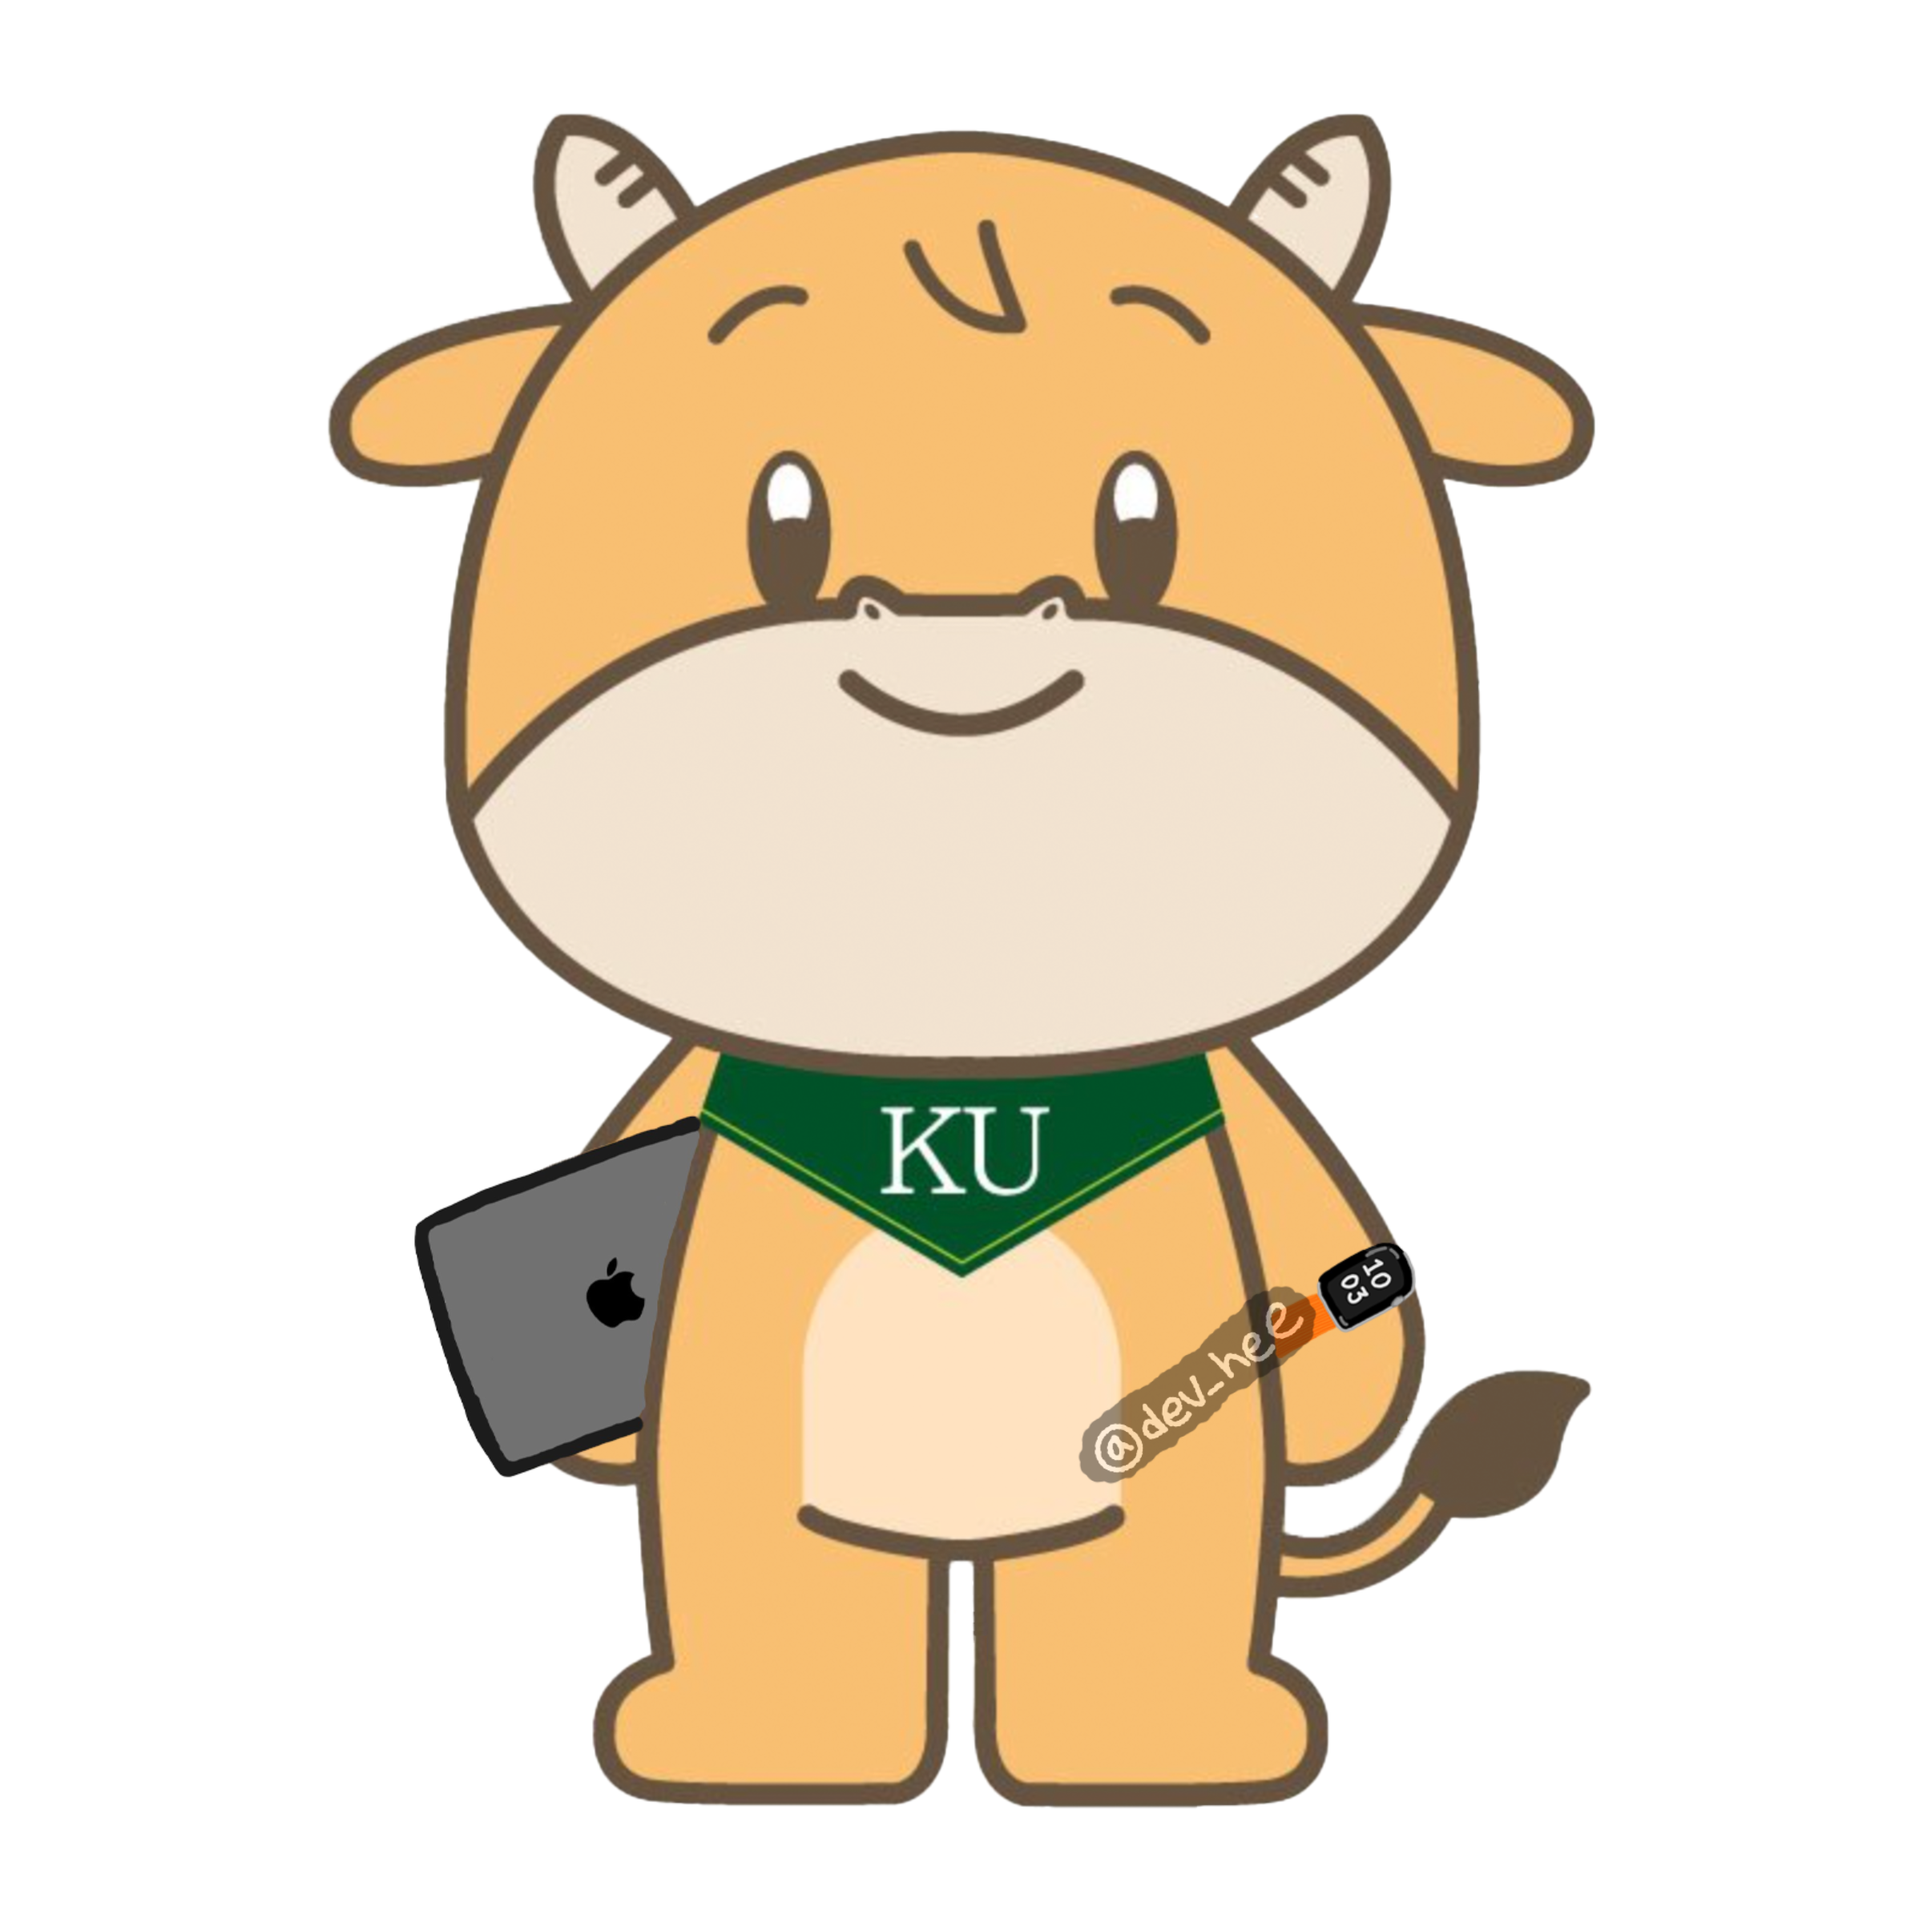
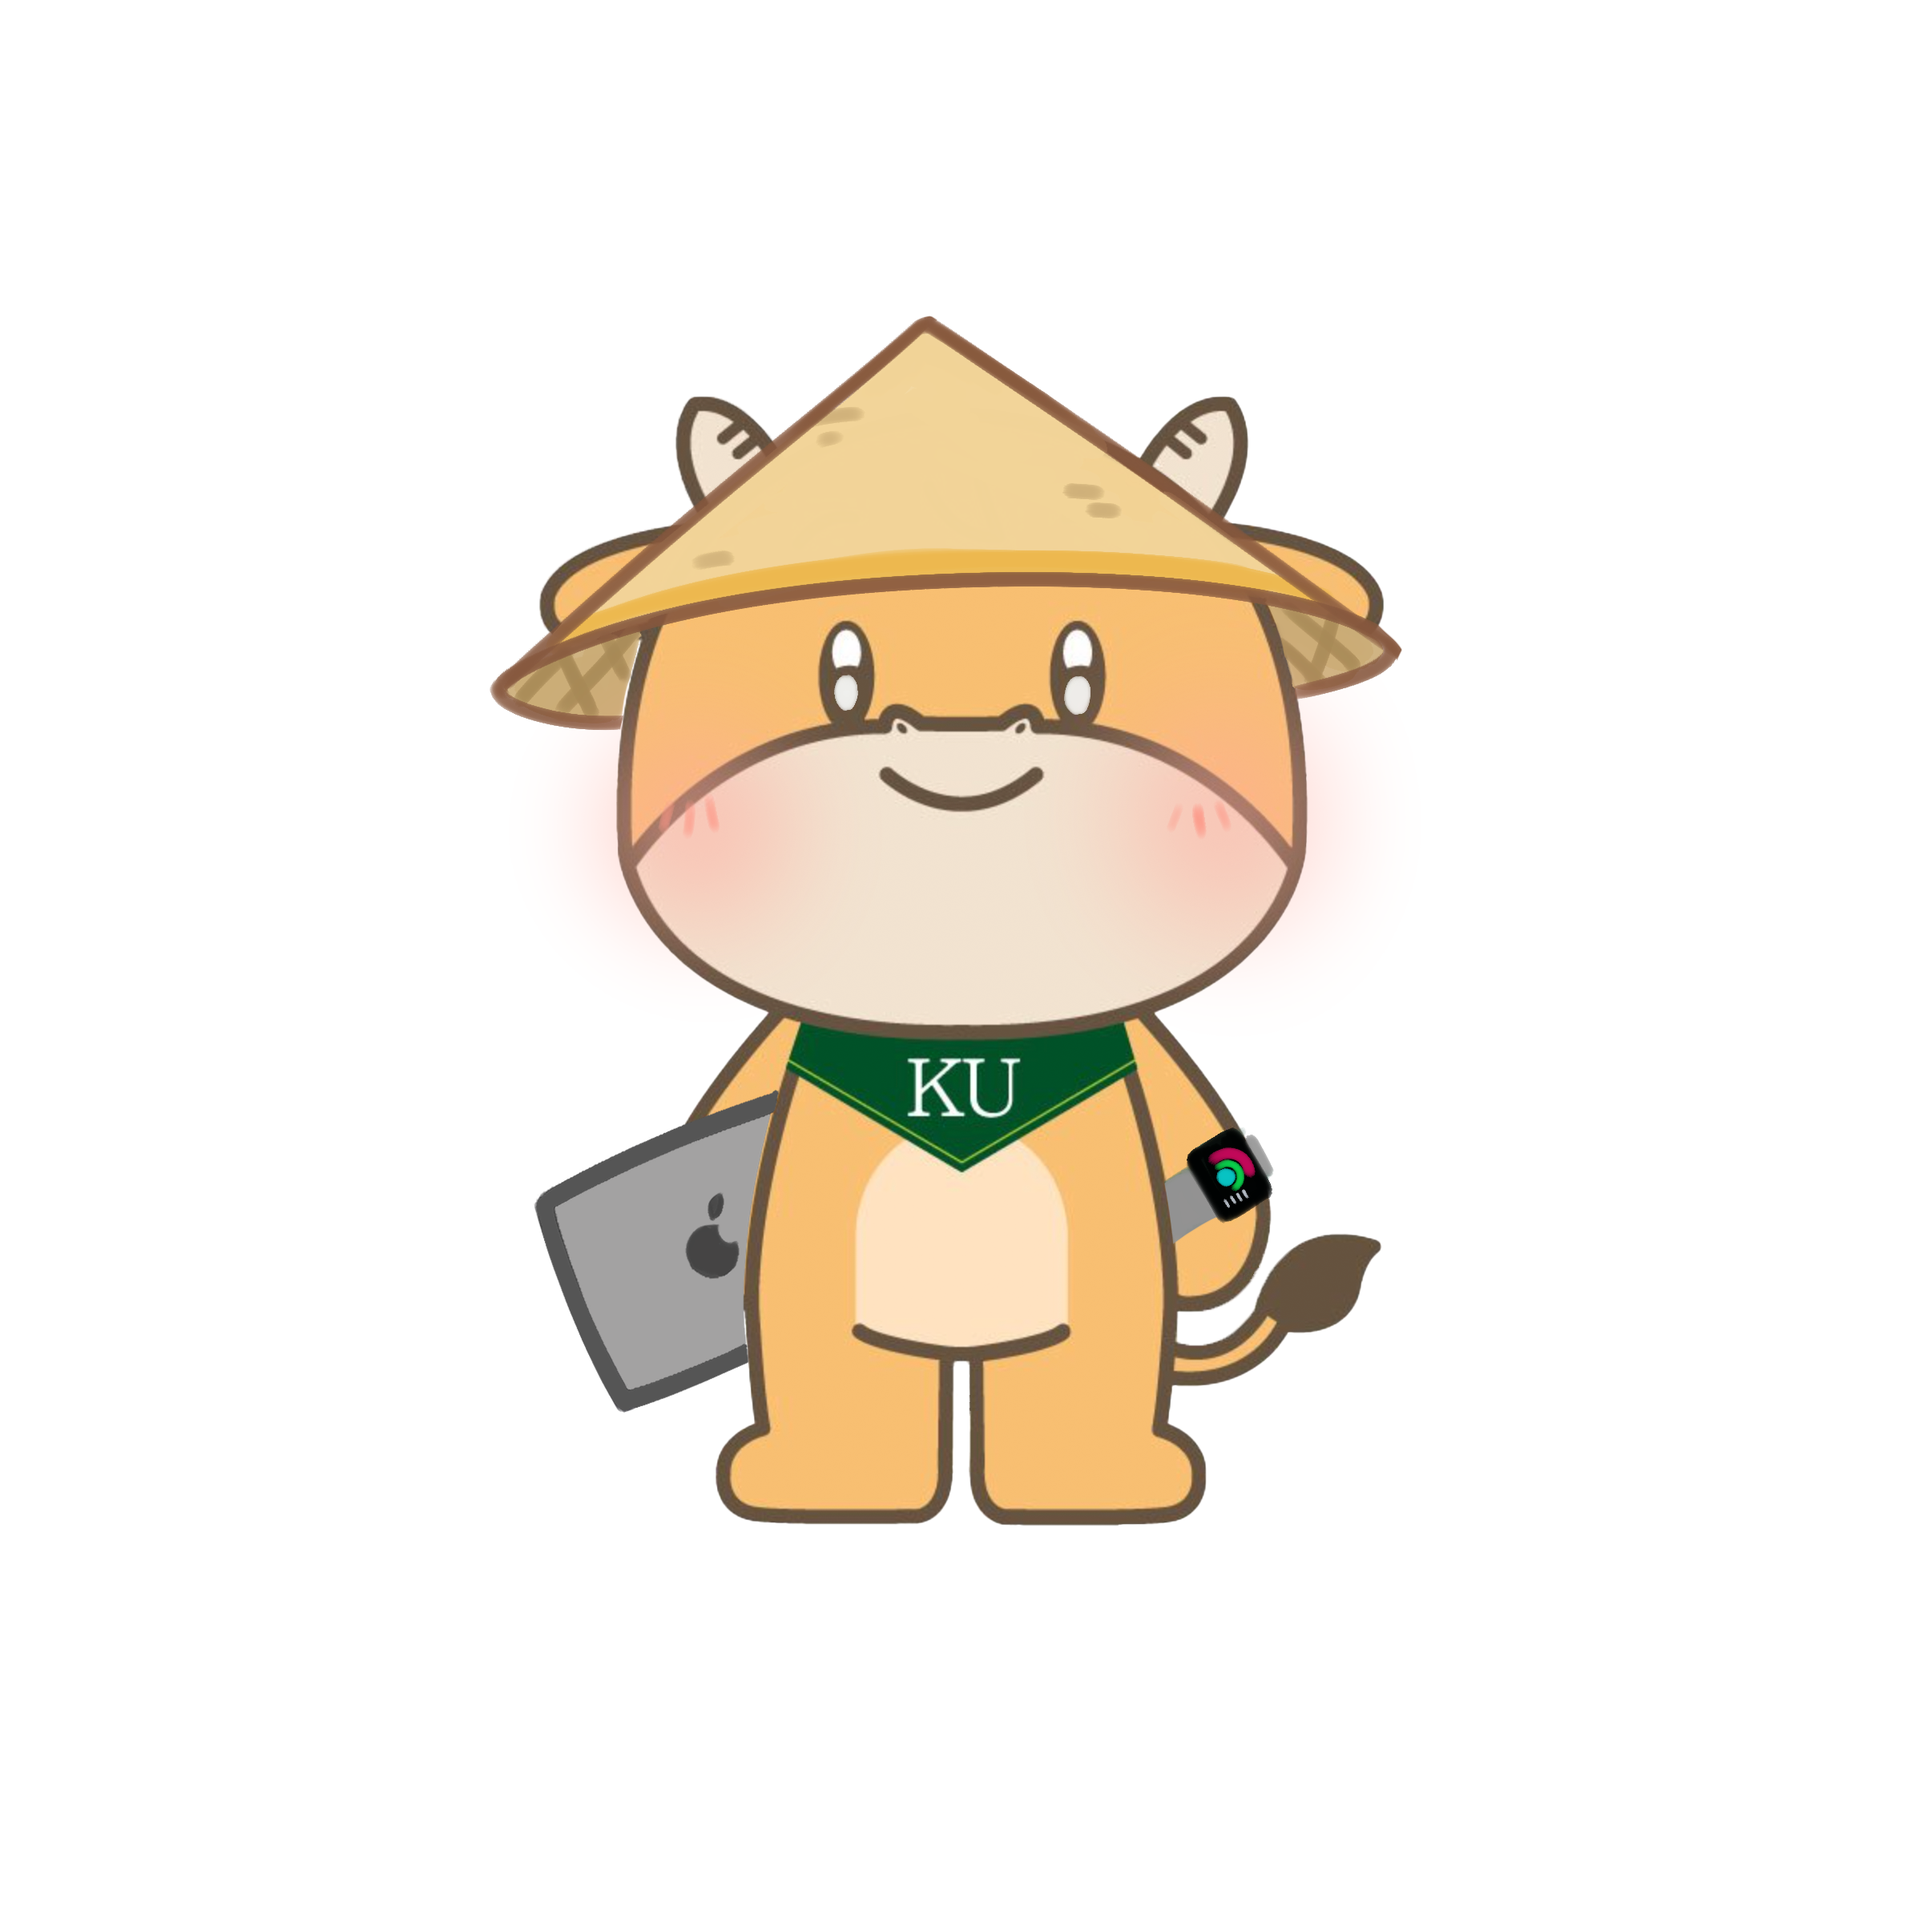
fix README 수정 및 초기화 버튼 클릭 시 초기화 안되는 오류 수정

diff --git a/src/store/canvas.ts b/src/store/canvas.ts
@@ -44,37 +44,37 @@ export const canvas = writable<fabric.Canvas | null>()
 export const width = writable(600)
 
 const defaultCostume = {
-  hand_dogImg: false,
-  face_gogglesImg: false,
-  head_armyCapImg: false,
-  face_darkCircleImg: false,
-  body_rokaImg: false,
-  hand_macSpacegrayImg: false,
-  hand_macSilverImg: false,
-  body_apronImg: false,
-  body_whiteCoatImg: false,
-  hand_beakerImg: false,
-  head_bambooHatImg: false,
-  face_sunglassesImg: false,
-  body_sweatSuitImg: false,
-  face_glassesImg: false,
-  face_roundGlassesImg: false,
-  face_weirdGlassesImg: false,
-  hand_appleWatchImg: false,
-  head_airPodsImg: false,
-  face_blushImg: false,
-  face_ahamedImg: false,
-  face_happyImg: false,
-  hand_bigBrushImg: false,
-  hand_milkImg: false,
-  body_plaidImg: false,
-  head_brightEyesImg: false,
-  hand_coffeeImg: false,
-  head_imnotkuImg: false,
-  face_imnotkuImg: false,
-  head_graduationHatImg: false,
-  body_graduationSuitImg: false,
-  hand_bookImg: false,
+  bambooHat: false,
+  armyCap: false,
+  imnotku: false,
+  airpod: false,
+  graduationHat: false,
+  blush: false,
+  brightEyes: false,
+  ahamed: false,
+  happy: false,
+  goggles: false,
+  notku: false,
+  sunglasses: false,
+  darkCircles: false,
+  glasses: false,
+  roundGlasses: false,
+  weirdGlasses: false,
+  apron: false,
+  roka: false,
+  whiteCoat: false,
+  plaid: false,
+  sweatSuit: false,
+  graduationSuit: false,
+  macSpacegray: false,
+  macSilver: false,
+  beaker: false,
+  appleWatch: false,
+  bigBrush: false,
+  milk: false,
+  coffee: false,
+  book: false,
+  dog: false,
 }
 
 export type CostumeKeys = keyof typeof defaultCostume

diff --git a/src/components/Tabs/DecorateTap.svelte b/src/components/Tabs/DecorateTap.svelte
@@ -96,7 +96,6 @@
     faceBtn.style.display = 'none'
     bodyBtn.style.display = 'none'
     handBtn.style.display = 'none'
-    console.log('all')
   }
 
   const headActive = () => {
@@ -118,7 +117,6 @@
     category_body_btn.style.backgroundColor = 'white'
     category_hand_btn.style.backgroundColor = 'white'
 
-    console.log('head')
     allBtn.style.display = 'none'
     headBtn.style.display = 'block'
     faceBtn.style.display = 'none'
@@ -145,7 +143,6 @@
     category_body_btn.style.backgroundColor = 'white'
     category_hand_btn.style.backgroundColor = 'white'
 
-    console.log('head')
     allBtn.style.display = 'none'
     headBtn.style.display = 'none'
     faceBtn.style.display = 'block'
@@ -172,7 +169,6 @@
     category_body_btn.style.backgroundColor = '#7ea338'
     category_hand_btn.style.backgroundColor = 'white'
 
-    console.log('head')
     allBtn.style.display = 'none'
     headBtn.style.display = 'none'
     faceBtn.style.display = 'none'
@@ -204,7 +200,6 @@
     faceBtn.style.display = 'none'
     bodyBtn.style.display = 'none'
     handBtn.style.display = 'block'
-    console.log('hand')
   }
 </script>
 

diff --git a/src/components/Tabs/SaveTap.svelte b/src/components/Tabs/SaveTap.svelte
@@ -14,6 +14,7 @@
   })
 
   const createImage = () => {
+    // 워터마크 삭제
     fabric.Image.fromURL(null, function (img) {
       img.scaleToWidth($width)
       img.scaleToWidth($width)
